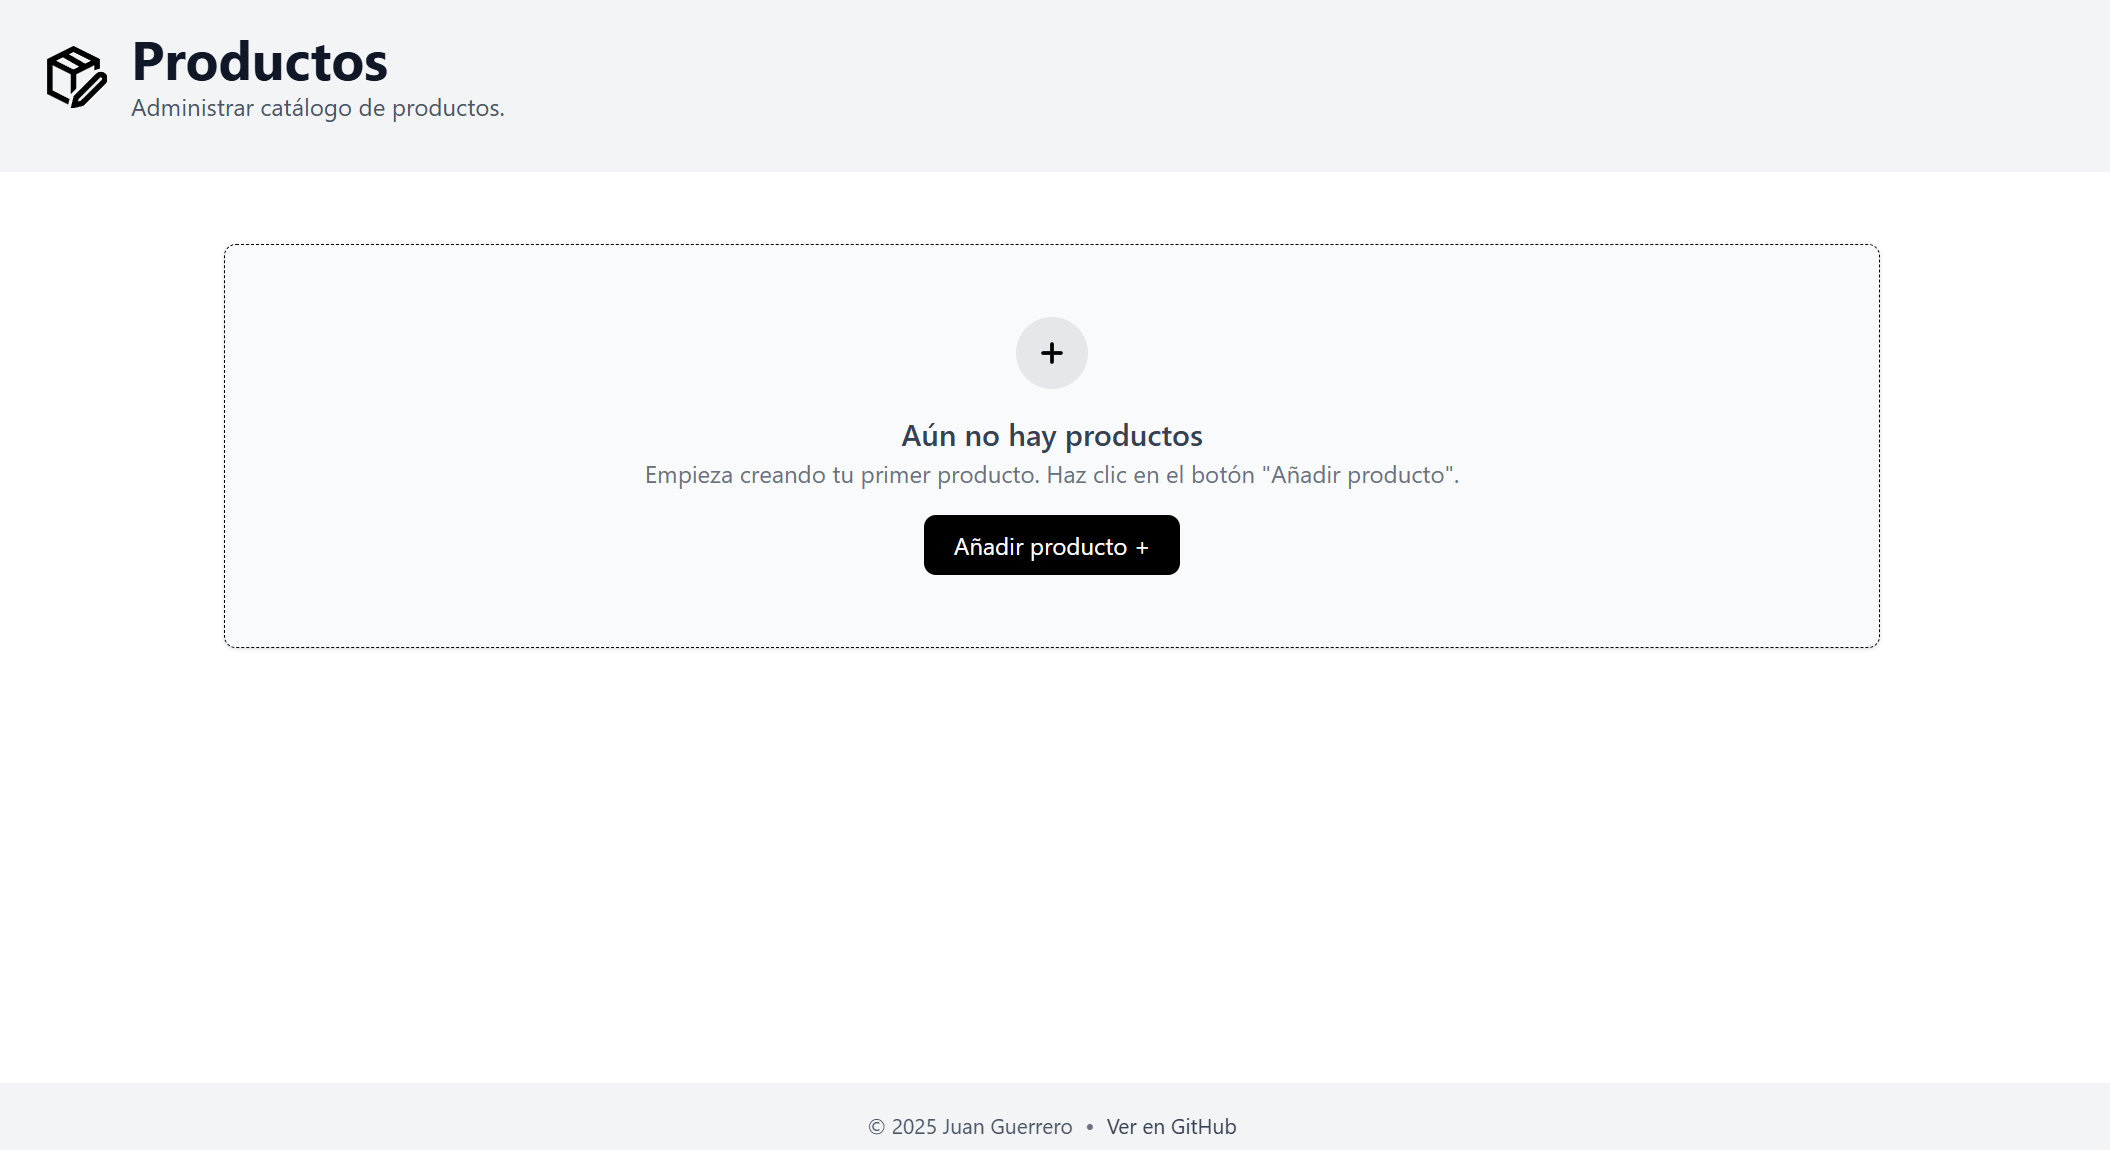
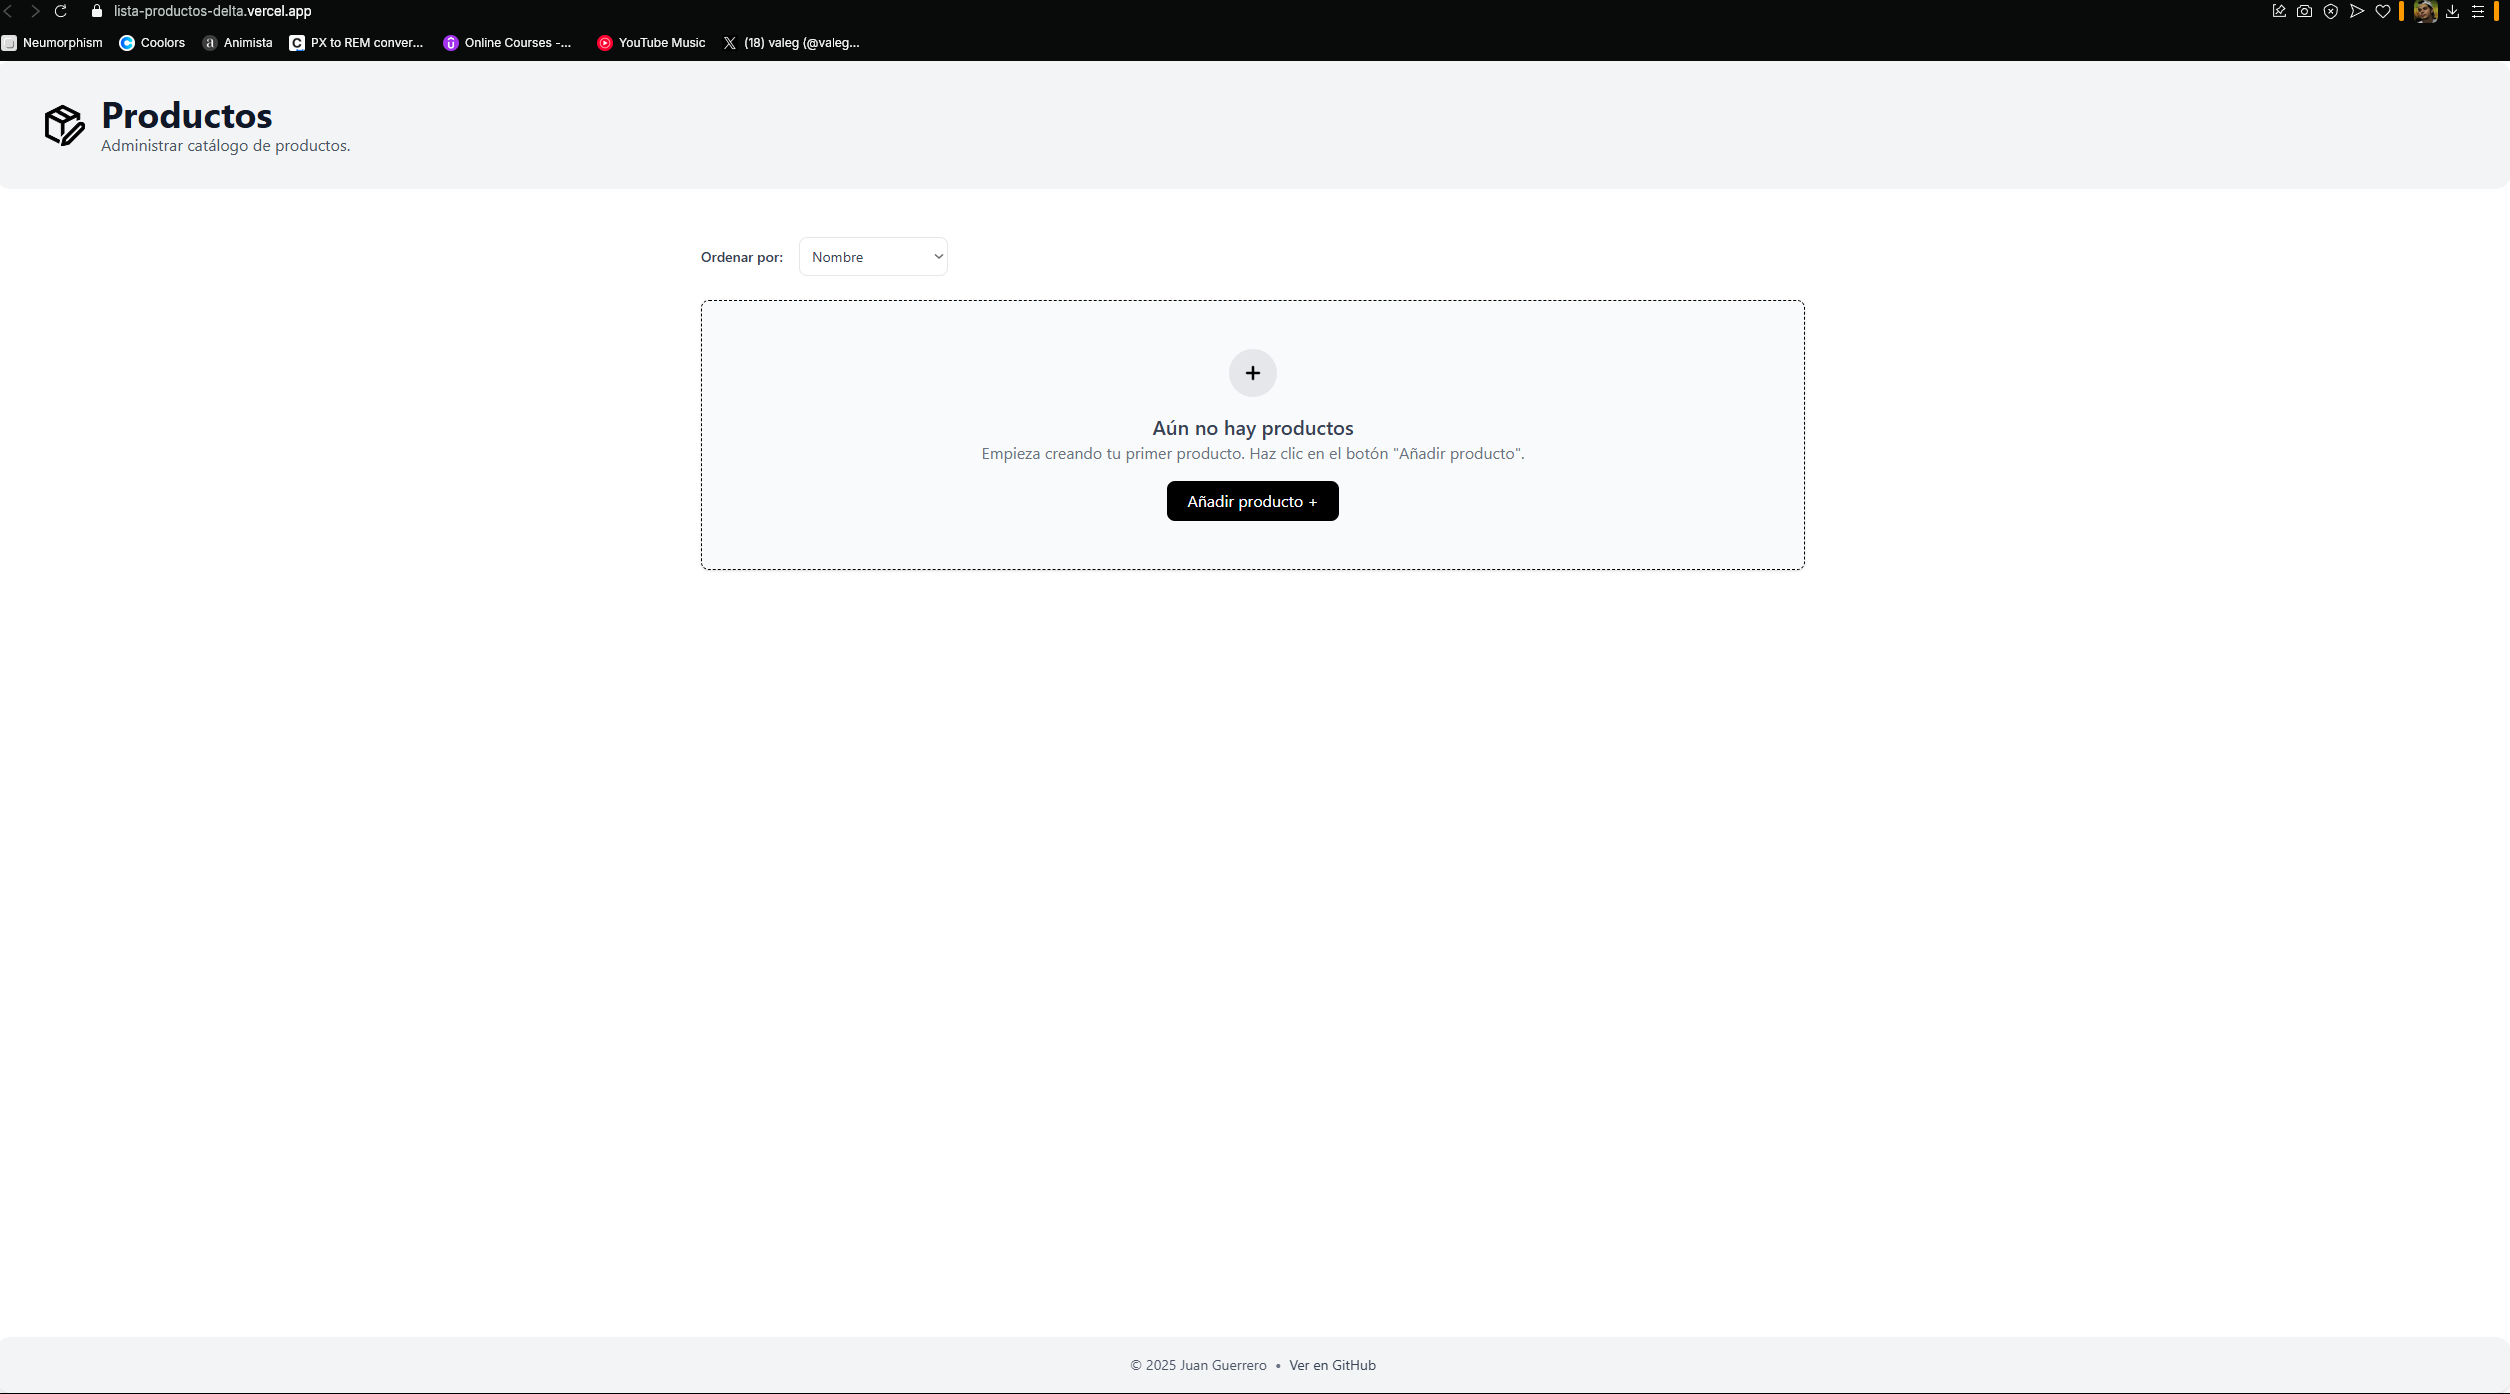
Update README

diff --git a/README.md b/README.md
@@ -5,7 +5,7 @@ Este es un proyecto desarrollado con [Next.js](https://nextjs.org), utilizando e
 ## Descripción
 La interfaz gráfica cuenta con tres vistas principales:
 1. **Sin productos**: Pantalla inicial sin elementos agregados.
-2. **Cuadro de diálogo para agregar productos**.
+2. **Formulario para agregar productos**.
 3. **Visualización en formato de cuadrícula** con tarjetas que muestran la información del producto.  
    - Al hacer clic en los tres puntos rojos, se puede eliminar un producto.
 
@@ -14,14 +14,17 @@ La interfaz gráfica cuenta con tres vistas principales:
 ### Vista sin productos
 ![Vista sin productos](/client/public/readme/l1.png)
 
-### Cuadro de diálogo para añadir productos
-![Cuadro de diálogo](/client/public/readme/l2.png)
+### Filtro de productos
+![Filtro de productos](/client/public/readme/l4.png)
+
+### Formulario para añadir productos
+![Formulario](/client/public/readme/l2.png)
 
 ### Visualización de productos en cuadrícula
 ![Vista en cuadrícula](/client/public/readme/l3.png)
 
 ## Despliegue
-Este proyecto ha sido desplegado en [Vercel](https://vercel.com).
+Este proyecto ha sido desplegado en [Vercel](https://lista-productos-delta.vercel.app).
 
 ---
 📌 **Tecnologías utilizadas:**
